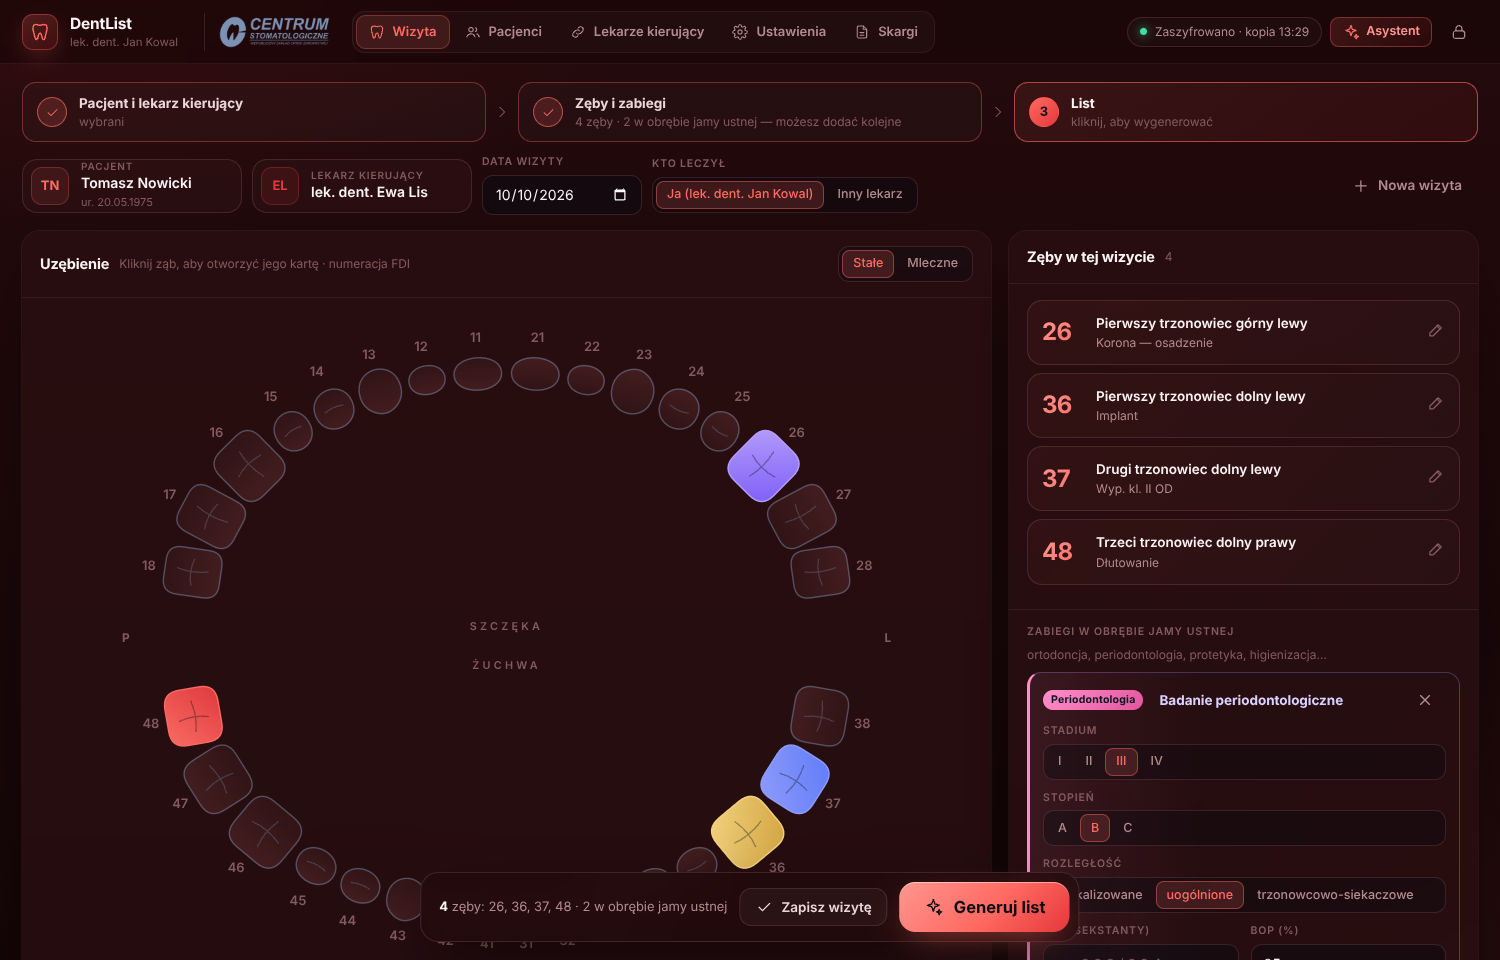
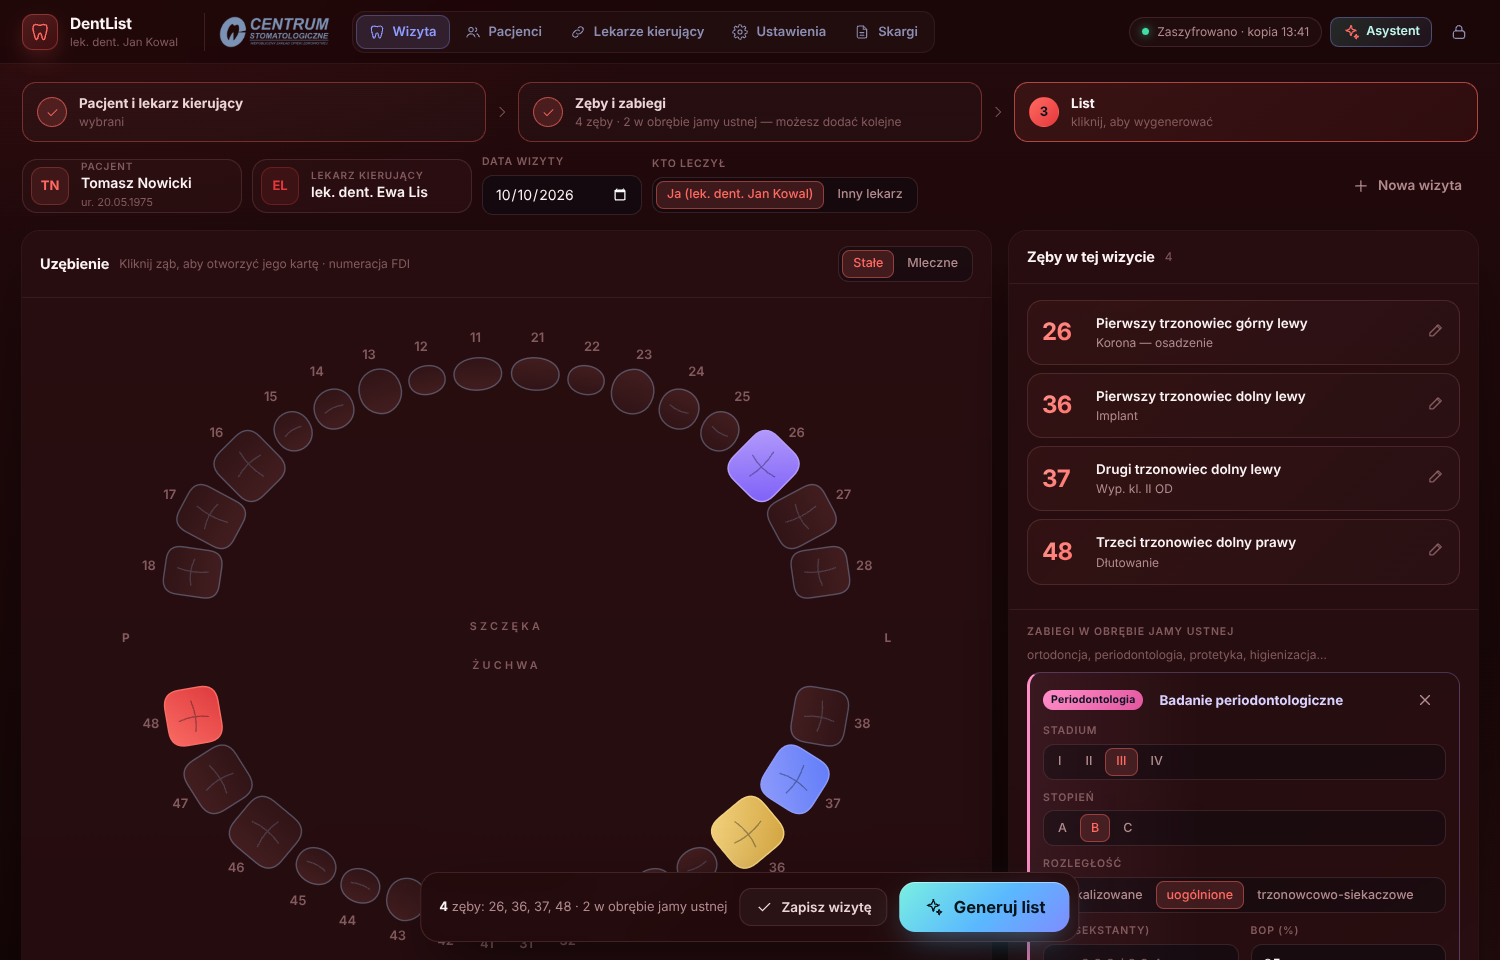
DentList 1.0.7: original glass buttons in every specialty
Claude-Session: https://claude.ai/code/session_01N2R7jD5mcfB683ZhhSfV7y

diff --git a/dentlist/public/css/app.css b/dentlist/public/css/app.css
@@ -37,7 +37,8 @@ svg.i { width: 18px; height: 18px; fill: none; stroke: currentColor; stroke-widt
 .btn:disabled { opacity: 0.42; cursor: default; }
 .btn-primary { border: none; color: #03141a; background: linear-gradient(135deg, #7af0e1, #5ab8ff 55%, #7f8cff); box-shadow: 0 12px 34px -12px rgba(94, 200, 255, 0.65), inset 0 1px 0 rgba(255, 255, 255, 0.45); }
 .btn-primary:hover:not(:disabled) { color: #03141a; background: linear-gradient(135deg, #8ff5e8, #6cc2ff 55%, #8e99ff); box-shadow: 0 16px 44px -12px rgba(94, 200, 255, 0.85), inset 0 1px 0 rgba(255, 255, 255, 0.55); }
-.btn-soft { background: linear-gradient(135deg, rgba(var(--acc-rgb), 0.16), rgba(var(--acc2-rgb), 0.08)); border-color: rgba(var(--acc-rgb), 0.35); color: #bff7ef; }
+/* buttons keep the original EndoList glass look in every specialty; only the contour takes the specialty hue */
+.btn-soft { background: linear-gradient(135deg, rgba(94, 230, 214, 0.16), rgba(98, 169, 255, 0.08)); border-color: rgba(var(--acc-rgb), 0.35); color: #bff7ef; }
 .btn-soft:hover:not(:disabled) { border-color: rgba(var(--acc-rgb), 0.7); color: #e2fffb; }
 .btn-ghost { background: transparent; border-color: transparent; color: var(--dim); }
 .btn-ghost:hover:not(:disabled) { background: rgba(255, 255, 255, 0.05); color: var(--strong); border-color: var(--line); }
@@ -695,9 +696,6 @@ section.asst-flash { box-shadow: 0 0 0 2px rgba(var(--acc-rgb), 0.7), 0 0 40px -
 
 /* whole screen in the colour of the specialty: page, panels and lines come from SPECS[].bg (set in applyTheme);
    endodontics keeps the original EndoList navy and aqua. */
-:root[data-spec]:not([data-spec="endo"]) .btn-primary { color: #0b0d12; background: linear-gradient(135deg, var(--accent-hi), var(--accent) 55%, var(--accent-2)); box-shadow: 0 12px 34px -12px rgba(var(--acc-rgb), 0.6), inset 0 1px 0 rgba(255, 255, 255, 0.45); }
-:root[data-spec]:not([data-spec="endo"]) .btn-primary:hover:not(:disabled) { background: linear-gradient(135deg, var(--accent-hi), var(--accent-hi) 30%, var(--accent)); box-shadow: 0 16px 44px -12px rgba(var(--acc-rgb), 0.8), inset 0 1px 0 rgba(255, 255, 255, 0.55); }
-:root[data-spec]:not([data-spec="endo"]) .btn-soft { color: var(--accent-hi); }
 :root[data-spec]:not([data-spec="endo"]) .tp-num, :root[data-spec]:not([data-spec="endo"]) .vt-num { background-image: linear-gradient(135deg, var(--accent-hi), var(--accent)); }
 
 /* tooth card: side rail with every specialty */

diff --git a/dentlist/public/sw.js b/dentlist/public/sw.js
@@ -1,5 +1,5 @@
 // DentList — service worker: aplikacja działa offline (AI wymaga internetu).
-const VERSION = 'dentlist-v7';
+const VERSION = 'dentlist-v8';
 const ASSETS = [
   './', 'index.html', 'manifest.webmanifest', 'config.json', 'css/app.css',
   'js/app.js', 'js/ai.js', 'js/data.js', 'js/dx.js', 'js/files.js', 'js/letter.js', 'js/odontogram.js', 'js/pdf.js', 'js/vault.js', 'js/tooth3d.js', 'js/speech.js', 'js/letterview.js', 'js/sync.js', 'js/privacy.js', 'js/org.js', 'js/specs.js', 'js/complaints.js', 'js/assistant.js',

diff --git a/dentlist/public/js/app.js b/dentlist/public/js/app.js
@@ -74,7 +74,7 @@ const DEFAULT_SETTINGS = {
   security: { autolock: 15 },
   used: {},
 };
-export const APP_VERSION = '1.0.6';
+export const APP_VERSION = '1.0.7';
 const WRITER = 2; // letter writer generation (first-person narrative)
 const S = { session: null, folder: null, data: null, view: 'visit', visitId: null, fdi: null, ttab: 'anat', letterId: null, patientId: null, search: '', saving: 0, backingUp: false, installEvt: null, lastActive: Date.now(), previewUrl: null, sync: null, syncStatus: null };
 const D = () => S.data;

diff --git a/dentlist/README.md b/dentlist/README.md
@@ -11,7 +11,7 @@ There are 10 specialties, each with its own subdued colour gradient. The colours
 **Specialties:** Stomatologia zachowawcza · Endodoncja · Chirurgia stomatologiczna · Implantologia · Periodontologia · Protetyka · Ortodoncja · Stomatologia dziecięca · Chirurgia szczękowo-twarzowa · Higienizacja i profilaktyka.
 
 - **Home specialty:** each doctor chooses one in the first-start screen or in Settings. It sets the order of the tooth-card steps, the default procedures and materials, and the colour of the whole screen. Endodontics keeps the original EndoList navy and aqua. Every other specialty has its own defined colour scheme:
-  the same recipe as the original navy (identical depth, saturation, transparency and glow), only in its own hue, with Apple-style accent colours: indigo (zachowawcza), crimson red (chirurgia), wine red (szczękowo-twarzowa), midnight green with gold (implantologia), magenta (periodontologia), violet (protetyka), forest green (ortodoncja), orchid with orange (dziecięca), emerald (higienizacja). The tooth card uses the doctor's own colours, as in the original.
+  the same recipe as the original navy (identical depth, saturation, transparency and glow), only in its own hue, with Apple-style accent colours: indigo (zachowawcza), crimson red (chirurgia), wine red (szczękowo-twarzowa), midnight green with gold (implantologia), magenta (periodontologia), violet (protetyka), forest green (ortodoncja), orchid with orange (dziecięca), emerald (higienizacja). The tooth card uses the doctor's own colours, as in the original. Buttons keep the original EndoList glass look in every specialty; only the thin contour of the outline buttons takes the specialty hue.
 - **Tooth card follows the specialty:** for an endodontist it starts with Anatomia and Endodoncja. For every other specialty the steps are Badanie, Zabiegi, Materiały, Opis własny and Zalecenia. Root canals are not shown, but Zabiegi › Endodoncja adds the root-canal steps whenever needed. The 3D model shows what was done: an implant (with a healing cap, or with a crown when a crown or implant restoration is recorded), an extracted tooth as a faint outline, or a plain tooth. Canals appear only with endodontic work. It also draws the work of the other specialties: fillings on the recorded surfaces, crowns (ceramic, temporary, stainless steel for children), veneers, inlays/onlays, posts, sealants, SDF, pulpotomy, apicoectomy with retrograde filling, and the gingiva for periodontal procedures (lower after a recession).
 - **Side rail of specialties** in the tooth card: every doctor (an endodontist too) can tap any specialty to record its work on this tooth. Specialties already used on the tooth are marked with a count.
 - **Materials and equipment by specialty:** the Materiały step opens on the specialty of the work on this tooth, with that specialty's categories (e.g. implant systems and motors for implantology, curettes and Emdogain for periodontology, brackets and wires for orthodontics). The microscope card is shown for endodontics. Every specialty is **always available**: an endodontist can record a filling, and a general dentist can record a root canal or an extraction.
